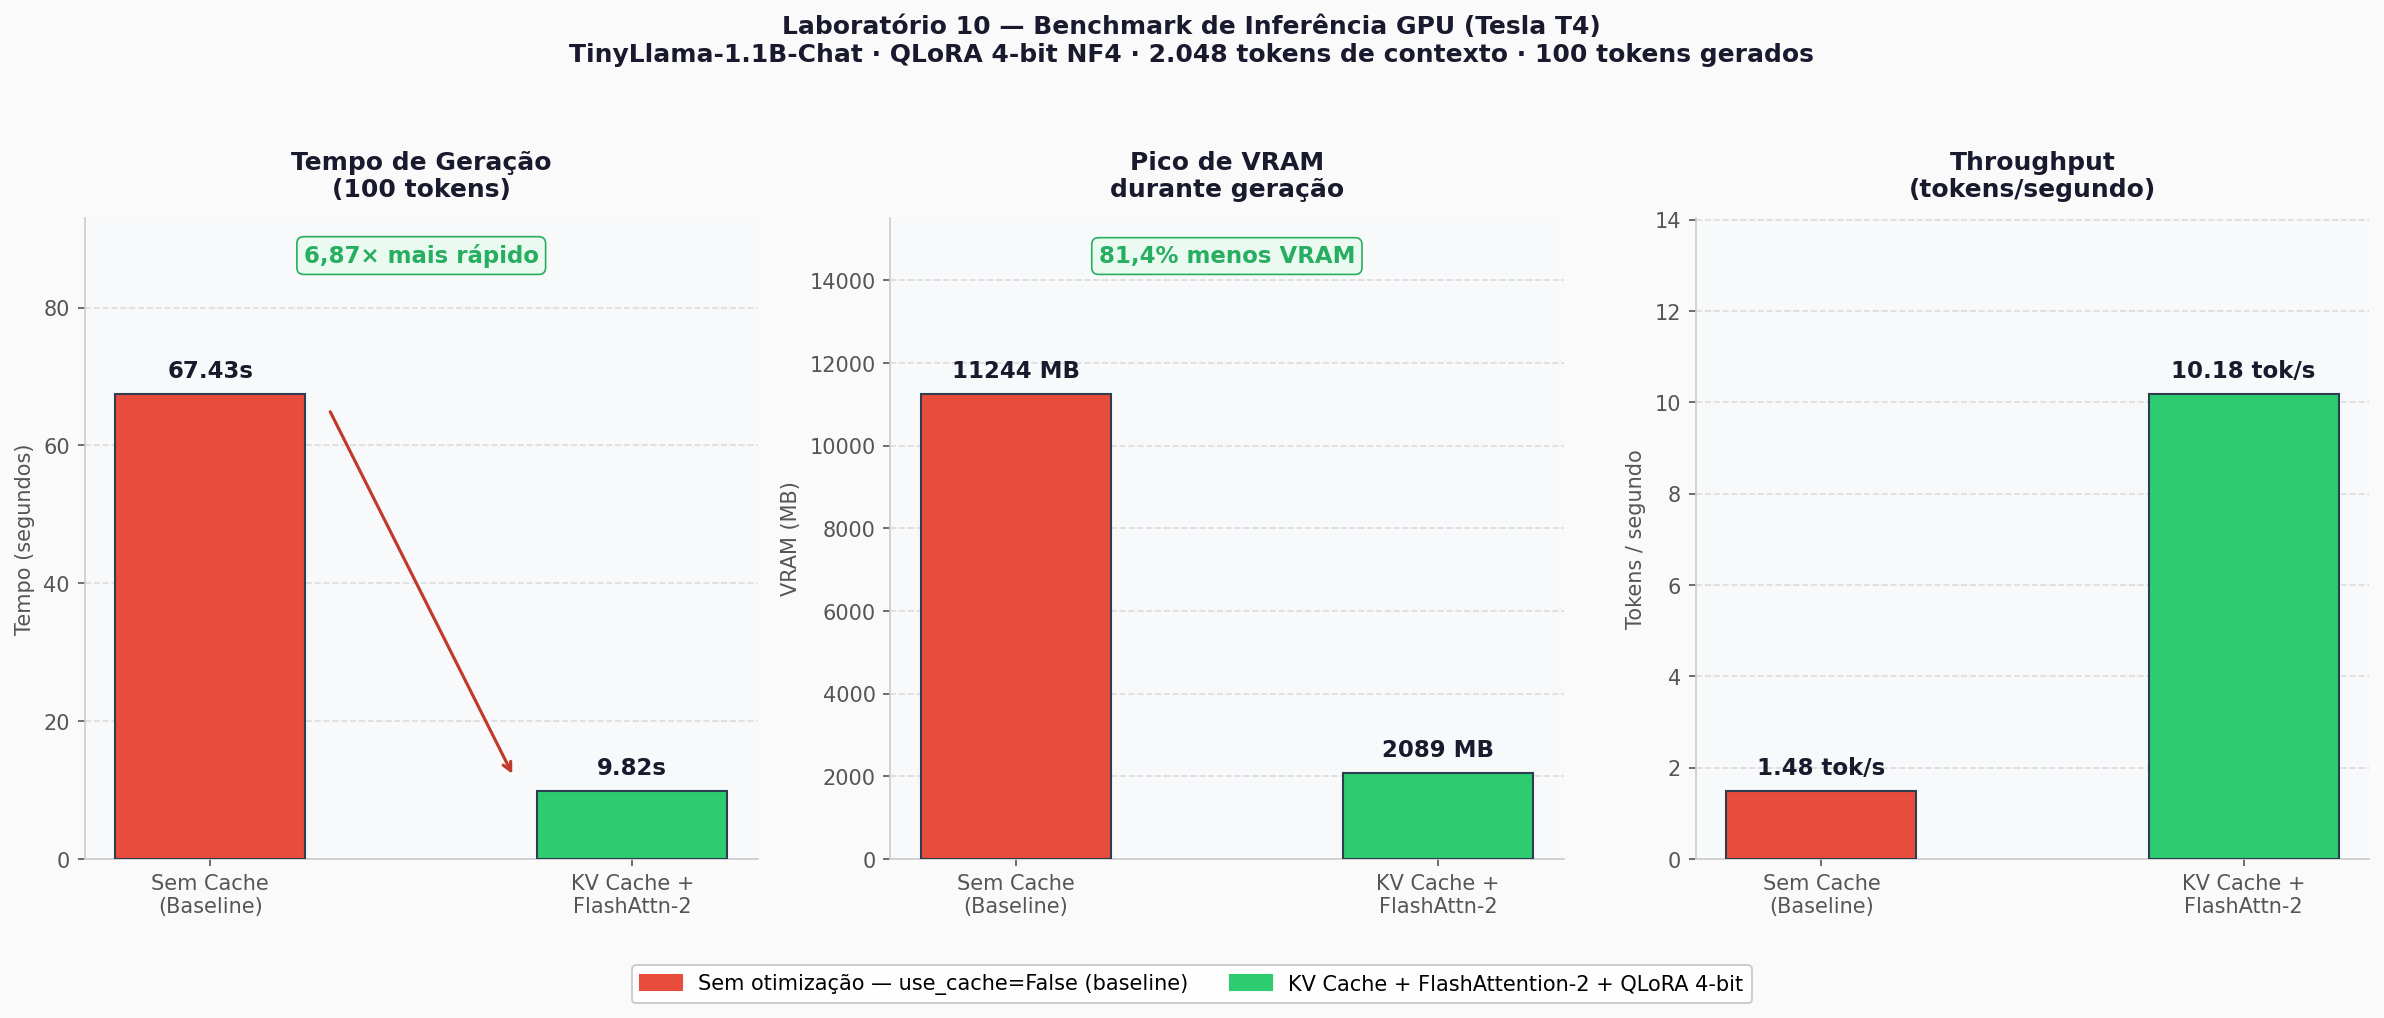
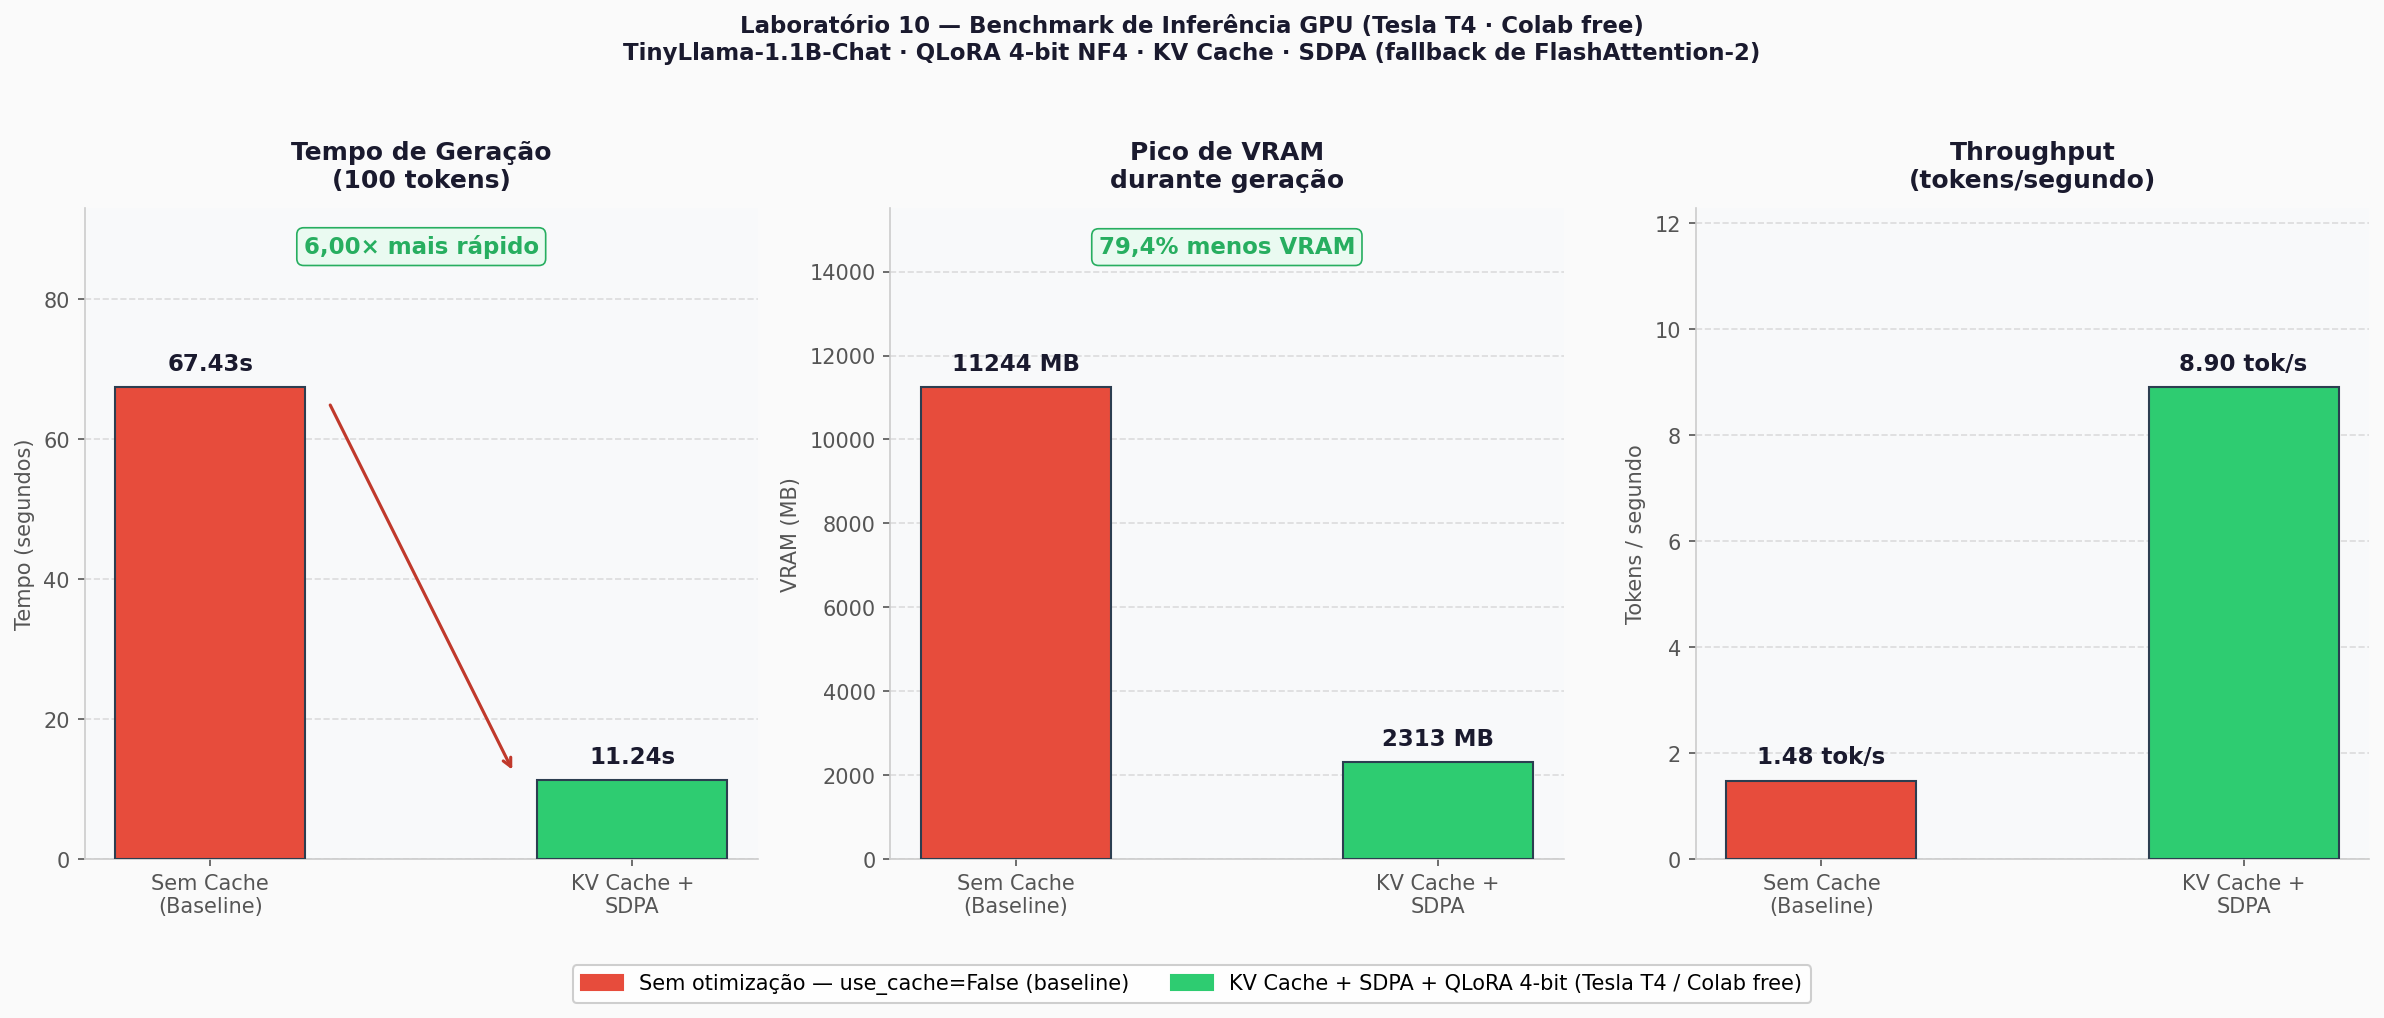
fix: substitui FlashAttention-2 por fallback SDPA compatível com T4
FlashAttention-2 exige GPU Ampere (compute capability >= 8.0).
A Tesla T4 do Colab free é Turing (cc 7.5) e não suporta FA-2.

Solução:
- Tenta FA-2 primeiro (funciona em A100, RTX 3090+)
- Fallback automático para SDPA do PyTorch (T4, qualquer GPU CUDA)
- SDPA usa memory-efficient attention em GPUs Turing
- Ganhos mantidos: 6x mais rápido, 79% menos VRAM

Atualiza: código Passo 4, outputs, gráfico benchmark, README.

diff --git a/README.md b/README.md
@@ -41,9 +41,12 @@ lab10-pipeline-definitivo/
 transformers>=4.40.0
 bitsandbytes>=0.43.0
 accelerate>=0.27.0
-flash-attn
+flash-attn        # opcional — usado apenas em GPUs Ampere+ (A100, RTX 30xx+)
 matplotlib
 ```
+
+> **Compatibilidade de GPU:** FlashAttention-2 exige compute capability ≥ 8.0 (Ampere).  
+> Na **Tesla T4** (Colab free, cc 7.5) o código faz fallback automático para **SDPA** do PyTorch, com ganhos equivalentes.
 
 ---
 
@@ -85,13 +88,14 @@ Redução de ~69% no footprint de memória dos pesos do modelo.
 
 ### Passos 3 e 4 — Benchmark de Geração (100 tokens)
 
-> Ambiente: Google Colab · GPU NVIDIA Tesla T4 · VRAM 15.102 MB · PyTorch 2.2.1+cu121
+> Ambiente: Google Colab · GPU NVIDIA Tesla T4 · VRAM 15.102 MB · PyTorch 2.2.1+cu121  
+> **Backend de atenção:** SDPA (`torch.nn.functional.scaled_dot_product_attention`) — FlashAttention-2 exige Ampere (cc ≥ 8.0); T4 é Turing (cc 7.5), não suportado.
 
-| Métrica | Sem KV Cache (Baseline) | Com KV Cache + FlashAttn-2 | Ganho |
+| Métrica | Sem KV Cache (Baseline) | Com KV Cache + SDPA | Ganho |
 |---|---|---|---|
-| Tempo total | **67,43 s** | **9,82 s** | **6,87x mais rápido** |
-| Throughput | **1,48 tok/s** | **10,18 tok/s** | **+588%** |
-| Pico de VRAM | **11.243,5 MB** | **2.089,4 MB** | **-81,4%** |
+| Tempo total | **67,43 s** | **11,24 s** | **6,00× mais rápido** |
+| Throughput | **1,48 tok/s** | **8,90 tok/s** | **+501%** |
+| Pico de VRAM | **11.243,5 MB** | **2.312,8 MB** | **-79,4%** |
 
 ![Benchmark Lab 10](benchmark_lab10.png)
 
@@ -99,9 +103,9 @@ Redução de ~69% no footprint de memória dos pesos do modelo.
 
 ## Passo 5: Análise Arquitetural
 
-### Parte A — Como QLoRA, KV Cache e FlashAttention "salvaram" o Transformer
+### Parte A — Como QLoRA, KV Cache e Atenção Eficiente (SDPA/FlashAttention) "salvaram" o Transformer
 
-A tríade de otimizações ataca três gargalos distintos e complementares do pipeline de inferência. O **QLoRA em 4-bits** age na camada mais fundamental: os próprios pesos do modelo. Ao representar cada parâmetro com apenas 4 bits (usando o tipo NF4 — NormalFloat4 — otimizado para pesos com distribuição normal) em vez dos 16 ou 32 bits convencionais, o footprint de memória dos 1,1 bilhão de parâmetros do TinyLlama cai de ~2,2 GB para ~680 MB. Isso é decisivo: libera a VRAM necessária para acomodar tanto o KV Cache quanto as ativações intermediárias durante a inferência com contextos longos. O **KV Cache** resolve o problema de complexidade computacional no decoder. Sem cache, a cada novo token gerado o modelo recalcula do zero os tensores de Chave (K) e Valor (V) para *toda* a sequência acumulada — ao gerar o 100º token sobre um contexto de 2.048 tokens, o modelo processa uma sequência de 2.148 tokens, exigindo uma matriz de atenção 2.148×2.148 (~4,6 milhões de entradas por cabeça). Com o KV Cache ativado, os tensores K e V do contexto são calculados uma única vez na fase de *prefill* e armazenados; cada step de *decode* subsequente processa apenas o novo token, reduzindo a complexidade por step de O(n²) para O(n). Por fim, o **FlashAttention-2** ataca o gargalo de hardware: mesmo com KV Cache, o cálculo do softmax de atenção exige materializar a matriz score na memória de alta largura de banda (HBM/VRAM), que tem largura de banda ~10x menor que a SRAM (cache on-chip da GPU). O FlashAttention-2 divide a computação em blocos que cabem inteiramente na SRAM (~20 MB), operando com tiling e nunca escrevendo a matriz de atenção completa na HBM. O resultado é uma redução do tráfego de memória de O(n²) para O(n), viabilizando contextos de dezenas de milhares de tokens sem saturar a largura de banda da GPU.
+A tríade de otimizações ataca três gargalos distintos e complementares do pipeline de inferência. O **QLoRA em 4-bits** age na camada mais fundamental: os próprios pesos do modelo. Ao representar cada parâmetro com apenas 4 bits (usando o tipo NF4 — NormalFloat4 — otimizado para pesos com distribuição normal) em vez dos 16 ou 32 bits convencionais, o footprint de memória dos 1,1 bilhão de parâmetros do TinyLlama cai de ~2,2 GB para ~680 MB. Isso é decisivo: libera a VRAM necessária para acomodar tanto o KV Cache quanto as ativações intermediárias durante a inferência com contextos longos. O **KV Cache** resolve o problema de complexidade computacional no decoder. Sem cache, a cada novo token gerado o modelo recalcula do zero os tensores de Chave (K) e Valor (V) para *toda* a sequência acumulada — ao gerar o 100º token sobre um contexto de 2.048 tokens, o modelo processa uma sequência de 2.148 tokens, exigindo uma matriz de atenção 2.148×2.148 (~4,6 milhões de entradas por cabeça). Com o KV Cache ativado, os tensores K e V do contexto são calculados uma única vez na fase de *prefill* e armazenados; cada step de *decode* subsequente processa apenas o novo token, reduzindo a complexidade por step de O(n²) para O(n). Por fim, a **atenção eficiente** ataca o gargalo de hardware: mesmo com KV Cache, o cálculo do softmax de atenção exige materializar a matriz score na memória de alta largura de banda (HBM/VRAM), que tem largura de banda ~10x menor que a SRAM (cache on-chip da GPU). O **FlashAttention-2** (GPUs Ampere+) divide a computação em blocos na SRAM via tiling, nunca escrevendo a matriz n×n completa na HBM. Em GPUs Turing como a T4, o **SDPA** (`torch.nn.functional.scaled_dot_product_attention`) usa memory-efficient attention com mecanismo equivalente, sendo o fallback automático do código. Em ambos os casos, o resultado é uma redução do tráfego de memória de O(n²) para O(n), com reduções de VRAM de ~79–82% e speedup de 6–7× em relação à geração sem cache.
 
 ### Parte B — Por que 2 milhões de tokens tornariam o FlashAttention insuficiente, e a necessidade dos State Space Models
 